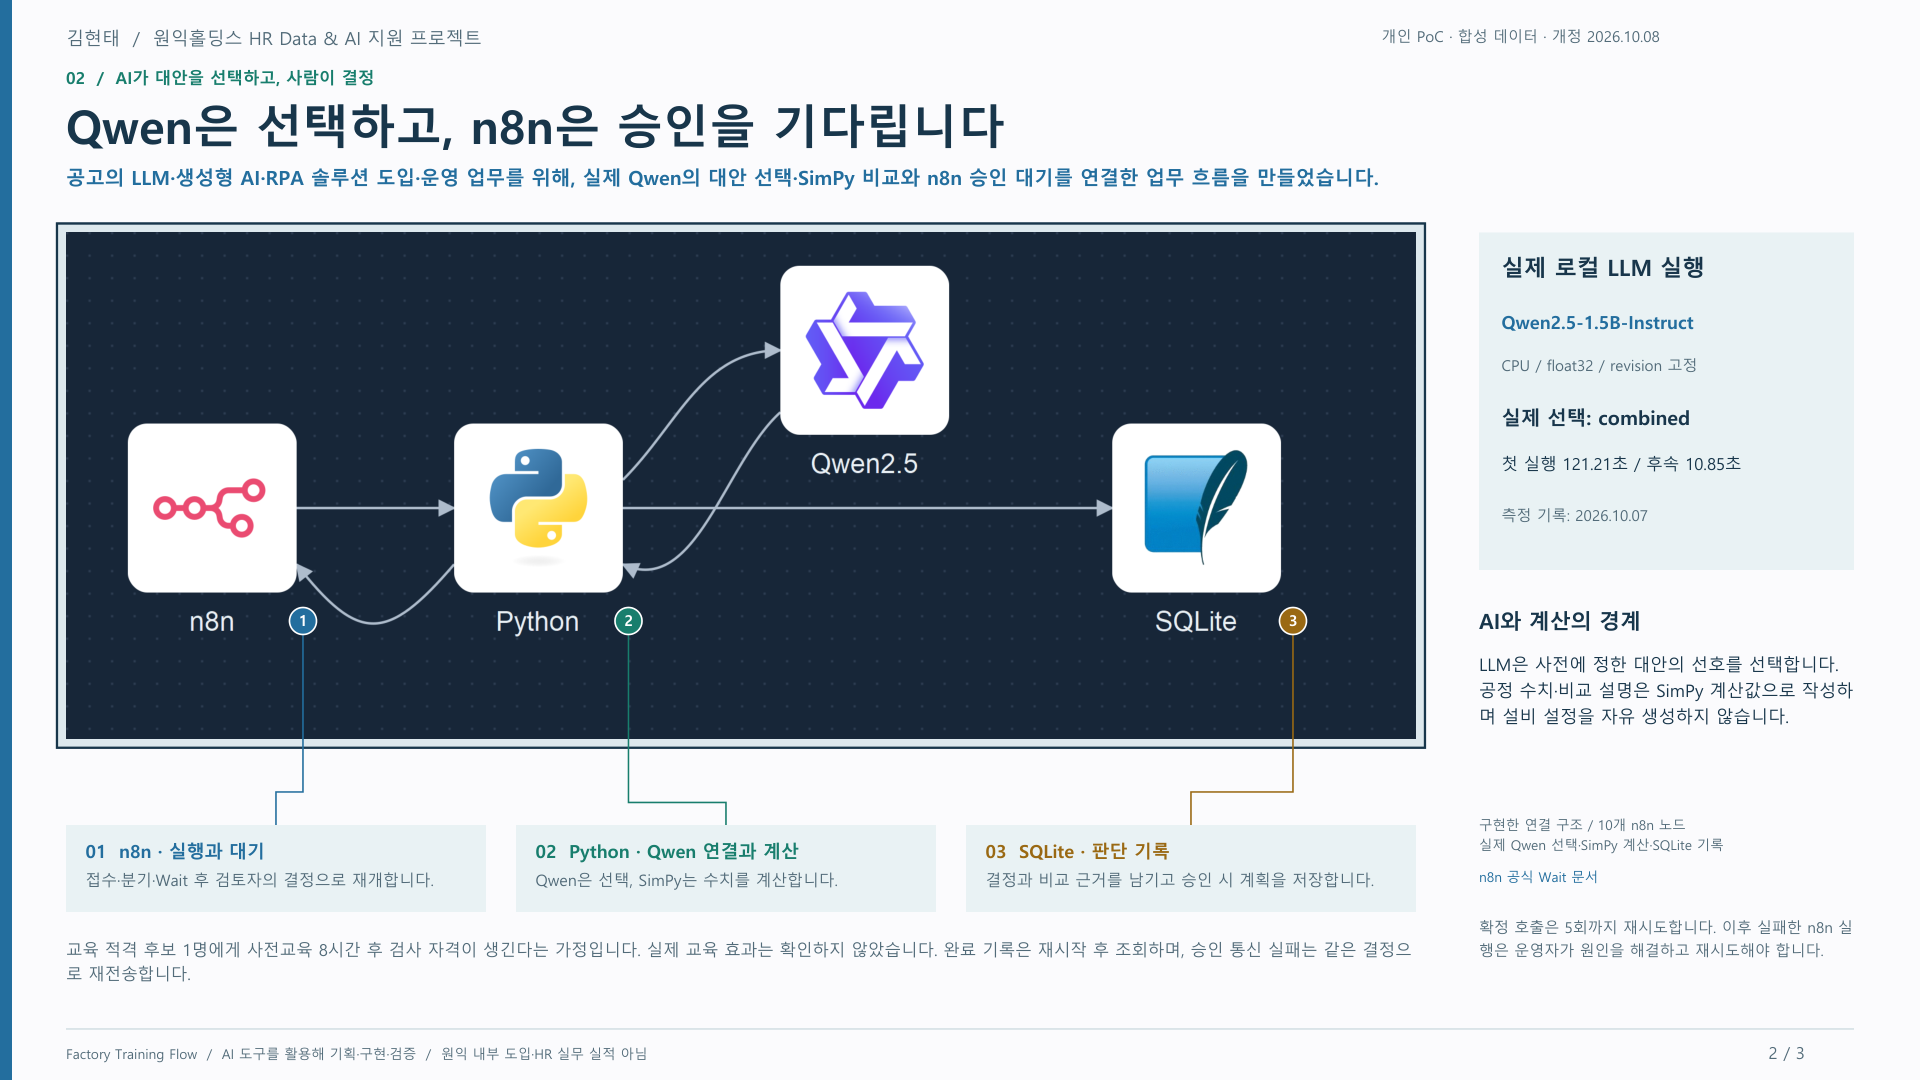
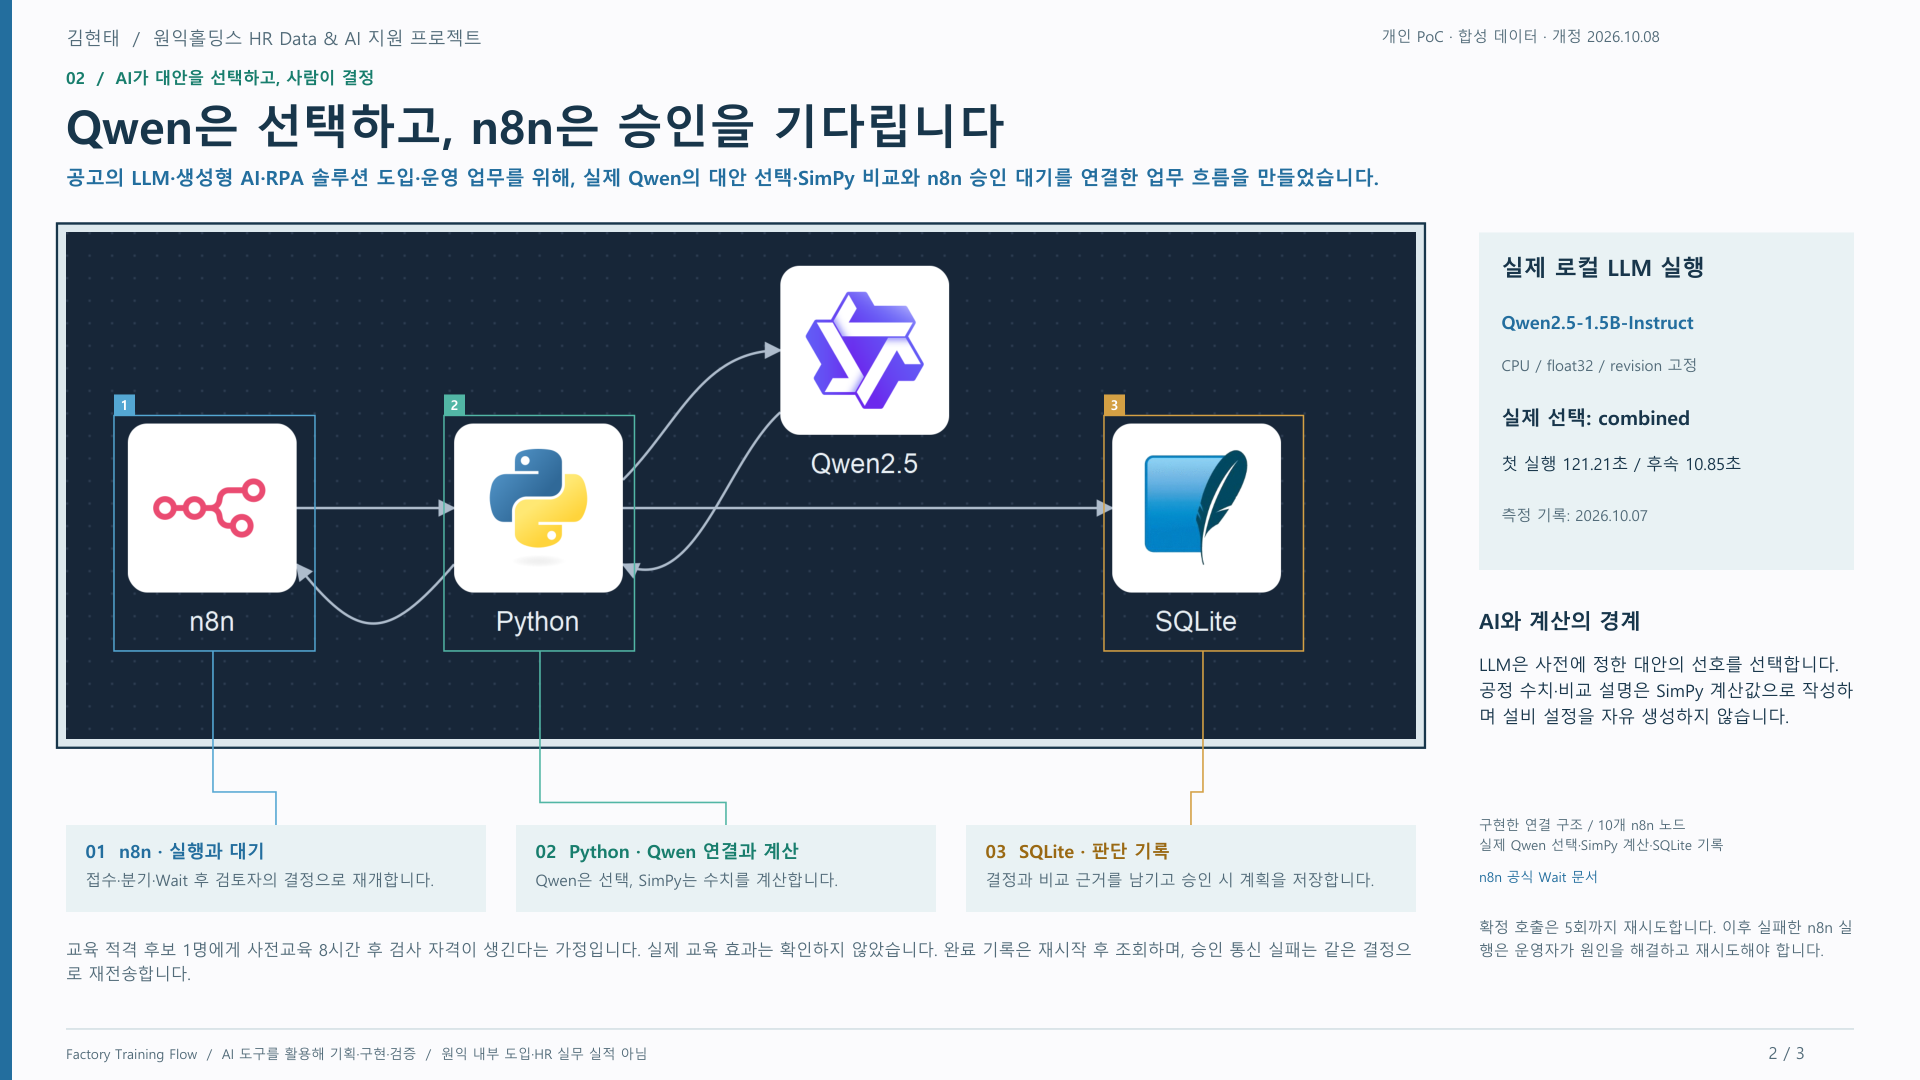
Outline explained regions and connect callouts to their boundaries

diff --git a/docs/portfolio-source/build.py b/docs/portfolio-source/build.py
@@ -64,16 +64,18 @@ def guide(n,x,t,title,desc,w):
  color=COLORS[n-1];rect(x,t,w,58,LIGHT)
  text(x+13,t+10,f'{n:02d}  {title}',12,color,True)
  para(x+13,t+30,desc,w-26,10.5,GRAY)
-def leader(n,points,target):
- color=COLORS[n-1];c.setStrokeColor(HexColor(color));c.setLineWidth(1.05)
+def leader(n,points,target,region):
+ color=(["#54a7d3","#53b7a5","#d4a044"][n-1] if page_no==2 else COLORS[n-1]);c.setStrokeColor(HexColor(color));c.setLineWidth(1.05)
  p=c.beginPath();p.moveTo(points[0][0],H-points[0][1])
  for x,y in points[1:]:p.lineTo(x,H-y)
  p.lineTo(target[0],H-target[1]);c.drawPath(p)
- c.setFillColor(HexColor(color));c.setStrokeColor(HexColor('#ffffff'));c.setLineWidth(1.1)
- radius=6 if page_no==1 and n==3 else 9
- c.circle(target[0],H-target[1],radius,fill=1,stroke=1)
- c.setFillColor(HexColor('#ffffff'));c.setFont('KR-B',8 if radius==6 else 10);c.drawCentredString(target[0],H-target[1]-3,str(n))
- annotations.append({'page':page_no,'number':n,'guide_start':points[0],'route':points[1:],'target':target})
+ x,t,w,h=region
+ c.setStrokeColor(HexColor(color));c.setLineWidth(1)
+ c.rect(x,H-t-h,w,h,fill=0,stroke=1)
+ bx,bt=(x-16,t+4) if page_no==1 and n==4 else (x,t-14)
+ rect(bx,bt,14,14,color)
+ c.setFillColor(HexColor('#ffffff'));c.setFont('KR-B',9);c.drawCentredString(bx+7,H-bt-10.5,str(n))
+ annotations.append({'page':page_no,'number':n,'guide_start':points[0],'route':points[1:],'target':target,'highlight_region':region,'outline_pt':1,'number_tab':[bx,bt,14,14]})
 
 base(1,'01  /  교육 AI 과제 발굴 · 합성 공정 비교','검사 교육과 공정 자동화를 비교하는 AI 교육기획 데모')
 h=shot(ROOT/'screens/replay-review3-focus.jpg',44,155,900)
@@ -90,10 +92,10 @@ rect(986,550,250,98,LIGHT)
 text(1001,563,'03  비교 결과',13,GOLD,True)
 para(1001,591,'기준 36.1개 → 결합 58.3개\n같은 주문·8시간·10개 seed 평균입니다.',220,11)
 guide(1,44,613,'공정 흐름','컨베이어·AMR가 이동하는 위치를 봅니다.',280)
-leader(1,[(184,613),(184,603),(28,603),(28,445)],(207,445))
-leader(2,[(986,467),(968,467),(968,397)],(669,397))
-leader(3,[(986,585),(957,585),(957,529)],(291,529))
-leader(4,[(986,332),(978,332),(978,282)],(718,282))
+leader(1,[(184,613),(184,603),(28,603),(28,450)],(201,450),(201,426,394,80))
+leader(2,[(986,467),(968,467),(968,400)],(701,400),(615,372,86,69))
+leader(3,[(986,585),(957,585),(957,547)],(432,547),(244,530,188,17))
+leader(4,[(986,332),(978,332),(978,282)],(924,282),(61,263,863,39))
 para(344,616,'합성 작업자·개인 PoC입니다. 실제 직원·원익 내부 데이터가 아닙니다.\n현장 비용·안전·교육 효과와 원익의 n8n 사용 여부는 미확인입니다.',600,10,GRAY)
 link(344,658,'출처: 공식 공고 / HR Data & AI','https://wonik.recruiter.co.kr/career/jobs/128767',8.5)
 link(530,658,'문제 배경: 원익로보틱스 공개 디지털트윈','https://wonikrobotics.com/kr/sub/application/robotAutomation/digital_twin.php',8.5)
@@ -104,9 +106,9 @@ shot(PROJECT/'assets/architecture.png',44,155,900)
 guide(1,44,550,'n8n · 실행과 대기','접수·분기·Wait 후 검토자의 결정으로 재개합니다.',280)
 guide(2,344,550,'Python · Qwen 연결과 계산','Qwen은 선택, SimPy는 수치를 계산합니다.',280)
 guide(3,644,550,'SQLite · 판단 기록','결정과 비교 근거를 남기고 승인 시 계획을 저장합니다.',300)
-leader(1,[(184,550),(184,528),(202,528)],(202,414))
-leader(2,[(484,550),(484,535),(419,535)],(419,414))
-leader(3,[(794,550),(794,528),(862,528)],(862,414))
+leader(1,[(184,550),(184,528),(142,528)],(142,434),(76,277,134,157))
+leader(2,[(484,550),(484,535),(360,535)],(360,434),(296,277,127,157))
+leader(3,[(794,550),(794,528),(802,528)],(802,434),(736,277,133,157))
 rect(986,155,250,225,LIGHT)
 text(1001,169,'실제 로컬 LLM 실행',15,NAVY,True)
 text(1001,207,'Qwen2.5-1.5B-Instruct',12,BLUE,True)
@@ -140,9 +142,9 @@ para(800,513,'실제 E2E: 3경로 / 실제 Qwen 2건\n연결부 테스트: 21/21
 guide(1,44,621,'계산 결과','동일 주문·8시간·10개 seed 평균을 비교합니다.',360)
 guide(2,424,621,'승인 후 저장','합성 교육 계획 1건 / 1명·8시간 가정입니다.',360)
 guide(3,804,621,'결측은 차단','모델 호출과 계획 생성 없이 종료합니다.',432)
-leader(1,[(224,621),(224,612),(28,612),(28,302)],(213,302))
-leader(2,[(604,621),(604,611),(766,611),(766,518)],(712,518))
-leader(3,[(1020,621),(1020,608),(1251,608),(1251,329)],(1224,329))
+leader(1,[(224,621),(224,612),(28,612),(28,302)],(61,302),(61,269,669,116))
+leader(2,[(604,621),(604,611),(766,611),(766,518)],(726,518),(63,489,663,47))
+leader(3,[(1020,621),(1020,608),(1251,608),(1251,329)],(1226,329),(807,307,419,41))
 para(800,579,'중복은 추가 실행·계획 없음 / 상충 결정은 409\n완료 기록은 재시작 후 유지 확인',436,10,GRAY)
 c.showPage();c.save()
 

diff --git a/docs/portfolio-source/검수기록.md b/docs/portfolio-source/검수기록.md
@@ -20,3 +20,13 @@
 - 밀접한 UI/문서 수정은 루트가 소유, 독립 light 윤문 게이트만 기존6.1Sol 작업자에게 위임.
 
 - review3 수정 문구6블록 light 윤문: 무수정0.0%, exit0/OK/golden PASS/자체검증6/6. 최종 PDF 제목·kicker·카드·조작안내 및 실제 UI 제목을 직접 대조. 전체 문구의 이전 검증 이력은 보존본·Git 이력에 유지.
+
+## 영역 표시 수정 · review-4
+
+- 사용자 요청: 번호만 찍은 지점 대신 얇은 사각형으로 설명 대상 전체를 감싸고 연결선을 영역 가장자리에서 인출. 3페이지10개 영역에 반영.
+- 1장: 대안·구도·재생 조작부, 컨베이어·AMR 이동 위치, 검사대, 평균 완료·자격·교육 가정 수치.
+- 2장: n8n·Python·SQLite 로고와 이름을 각각 감쌈. 어두운 배경에 맞춰 같은 계열의 밝은 선 색 사용.
+- 3장: 네 대안 비교 카드, 승인된 계획 저장 영역, 검사 스킬 결측 처리 행.
+- 전체 및100% 재열람: 얇은 사각형 네 변, 연결선 도착점, 실제 대상 일치, 내용 가림·선끼리 교차·푸터 겹침 없음. 기존 화면 외곽1.5pt 테두리 유지.
+- 모든 페이지 문구는 이전 PDF와 공백 제외 완전 동일. 기존 실제 윤문 게이트를 그대로 적용하며 새 윤문 수행으로 보고하지 않음. UI와 캡처, 계산·실행 기록 변경 없음.
+- 도형 배치가 결합된 소규모 작업이므로6-1-sol-orch에 따라 루트가 직접 수정·검수.

diff --git a/docs/portfolio-source/prose-validation.md b/docs/portfolio-source/prose-validation.md
@@ -15,3 +15,8 @@
 - 최종 1장 100% 재열람: PDF를 이 실행 폴더의 `page1-review-100.png`로 렌더해 제목·kicker·캡처 속 UI 문구·04 카드·3줄 안내가 반영되어 있는지 확인했습니다. 화면 조작을 저장된 네 대안 결과 선택·구도 전환·진행 시점 확인으로 설명하고 있으며 새 계산이나 실시간 AI 호출을 주장하지 않습니다.
 - 파일 경계: 이 신규 run만 작성했습니다. 기존 prose.md·루트 UI·build.py·PDF와 다른 작업자의 파일을 수정하거나 되돌리지 않았습니다.
 - 증거: `03_prepare.txt`, `04_modality.txt`, `05_commas.txt`, `06_gates.txt`, `validation.json`, `direct-comparison.diff`. final.md 메타는 검증용이고 최종 PDF에 넣지 않았습니다.
+
+## 영역 표시 변경 이후 문안 재대조
+
+- 이번 변경은 문서 도형만 수정했습니다. 세 페이지 전체 텍스트가 기존 PDF와 공백 제외 완전히 동일함을 PyMuPDF로 대조했습니다. 위의 실제 윤문 검증을 유지하며 새 윤문 실행으로 표시하지 않습니다.
[1 lines of base64/hex data omitted]

diff --git a/docs/portfolio-source/README.md b/docs/portfolio-source/README.md
@@ -6,7 +6,7 @@
 - `web/replay.html`(저장소 루트): 프로그램 제목을 직관적으로 수정한 실제 UI 소스입니다. 수정 후 다시 실행해 `replay-review3-full.jpg`와 `replay-review3-focus.jpg`를 촬영했습니다.
 - `prose.md`: 페이지별 직무 연결 및 사실 문구.
 - `screens/`: 2026.10.08 실제 localhost 화면 캡처. `*-full.jpg`는 전체 원본, `approved-detail.jpg`는 명시한 결과 영역 확대입니다. 공정 수치와 실제 Qwen 실행은 2026.10.07 기록입니다.
-- `audit.json`, `검수기록.md`: 3페이지·연결 문장·네 변 테두리·10개 안내·실제 조작 검수 기록.
+- `audit.json`, `검수기록.md`: 3페이지·연결 문장·네 변 테두리·10개 안내·얇은 사각형 영역 표시·실제 조작 검수 기록.
 - `prose-validation.md`: 최종 서술형 본문의 윤문 검증 기록.
 
 Windows의 맑은 고딕 폰트를 사용합니다. 저장소 루트에서 아래 명령으로 PDF를 다시 만들 수 있습니다.
